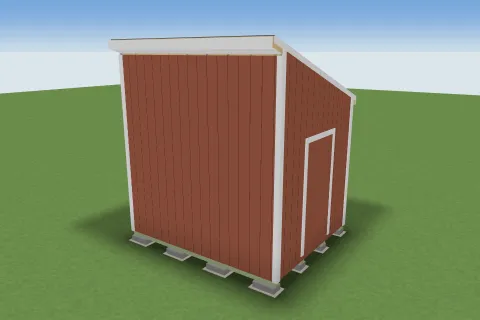
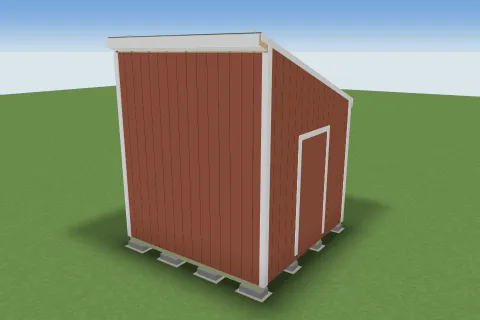
perf: commit redrawn Shed Designer pictures so Pages skips the 32 s redraw (#13237)
* shed-designer: commit redrawn pictures so Pages skips the 32 s Chromium redraw; perf history

Prompt-Version: perf/0
Claude-Session: https://claude.ai/code/session_01AcxTtJJvXZ2kAUtTv9bVuH

* run record: perf shed renders

Prompt-Version: perf/0
Claude-Session: https://claude.ai/code/session_01AcxTtJJvXZ2kAUtTv9bVuH

---------

Changed region(s): [[0.125, 0.0938, 0.75, 0.9688], [0.7812, 0.2812, 1.0, 0.3125], [0.0, 0.2812, 0.125, 0.3125]]

diff --git a/docs/history/ci-perf-2026-11-05-shed-renders-committed.md b/docs/history/ci-perf-2026-11-05-shed-renders-committed.md
@@ -1,0 +1,43 @@
+# Perf: commit the Shed Designer pictures so Pages stops redrawing them (2026-11-05)
+
+Track: perf. Metric: step minutes in `Portfolio Pages`, `Redraw stale Shed Designer pictures`.
+
+## Reading
+
+`python3 platform/ci/ci_profile.py --runs 100 --save jobs.json`, then step
+durations summed per name over the 100 most recent runs (109 jobs, 84.3
+job-minutes). Largest non-checkout steps:
+
+| step (Portfolio Pages) | jobs | total s |
+|---|---|---|
+| Test the site builder | 5 | 457 |
+| Redraw stale Shed Designer pictures | 9 | 292 (about 32 s each) |
+| Build the site | 9 | 198 |
+| Check the built artifact | 9 | 99 |
+
+On every non-PR run the redraw step ran `make-renders.mjs --check`, found the
+committed pictures stale, and so installed Playwright and Chromium
+(`npm install` + `playwright install --with-deps`) before drawing. Nothing is
+committed back, so the pictures stayed stale on `main` and the cost recurred
+on every merge and every three-hourly deploy.
+
+## Change
+
+Ran `node ventures/shed-designer/make-renders.mjs` (39 targets stale, 1 m 54 s
+in the sandbox) and committed the result: `manifest.json` (scene hashes) and
+three changed gallery cards. `--check` now exits 0 and the step returns at its
+first line. `RENDERS_STRICT=1 node --test renders.test.mjs`: 9 pass.
+Budget: 1054 KB of 1100 KB.
+
+## Before / after
+
+Before: about 32 s per non-PR Pages job (292 s over 9 jobs). After: the
+`--check` call only, about 1 s, as long as `main` stays fresh.
+
+## Not changed / next
+
+1. Staleness will return whenever a change touches the scene hash inputs
+   (`model.mjs`, `render3d.mjs` shaders, `renders.mjs`, gallery data) without
+   regenerating. `renders.test.mjs` only fails under `RENDERS_STRICT`; a cheap
+   PR-time `--check` (no browser) in the shed-designer tests would catch it.
+2. `Test the site builder` (457 s over 5 jobs) is still the largest step; see P062.
